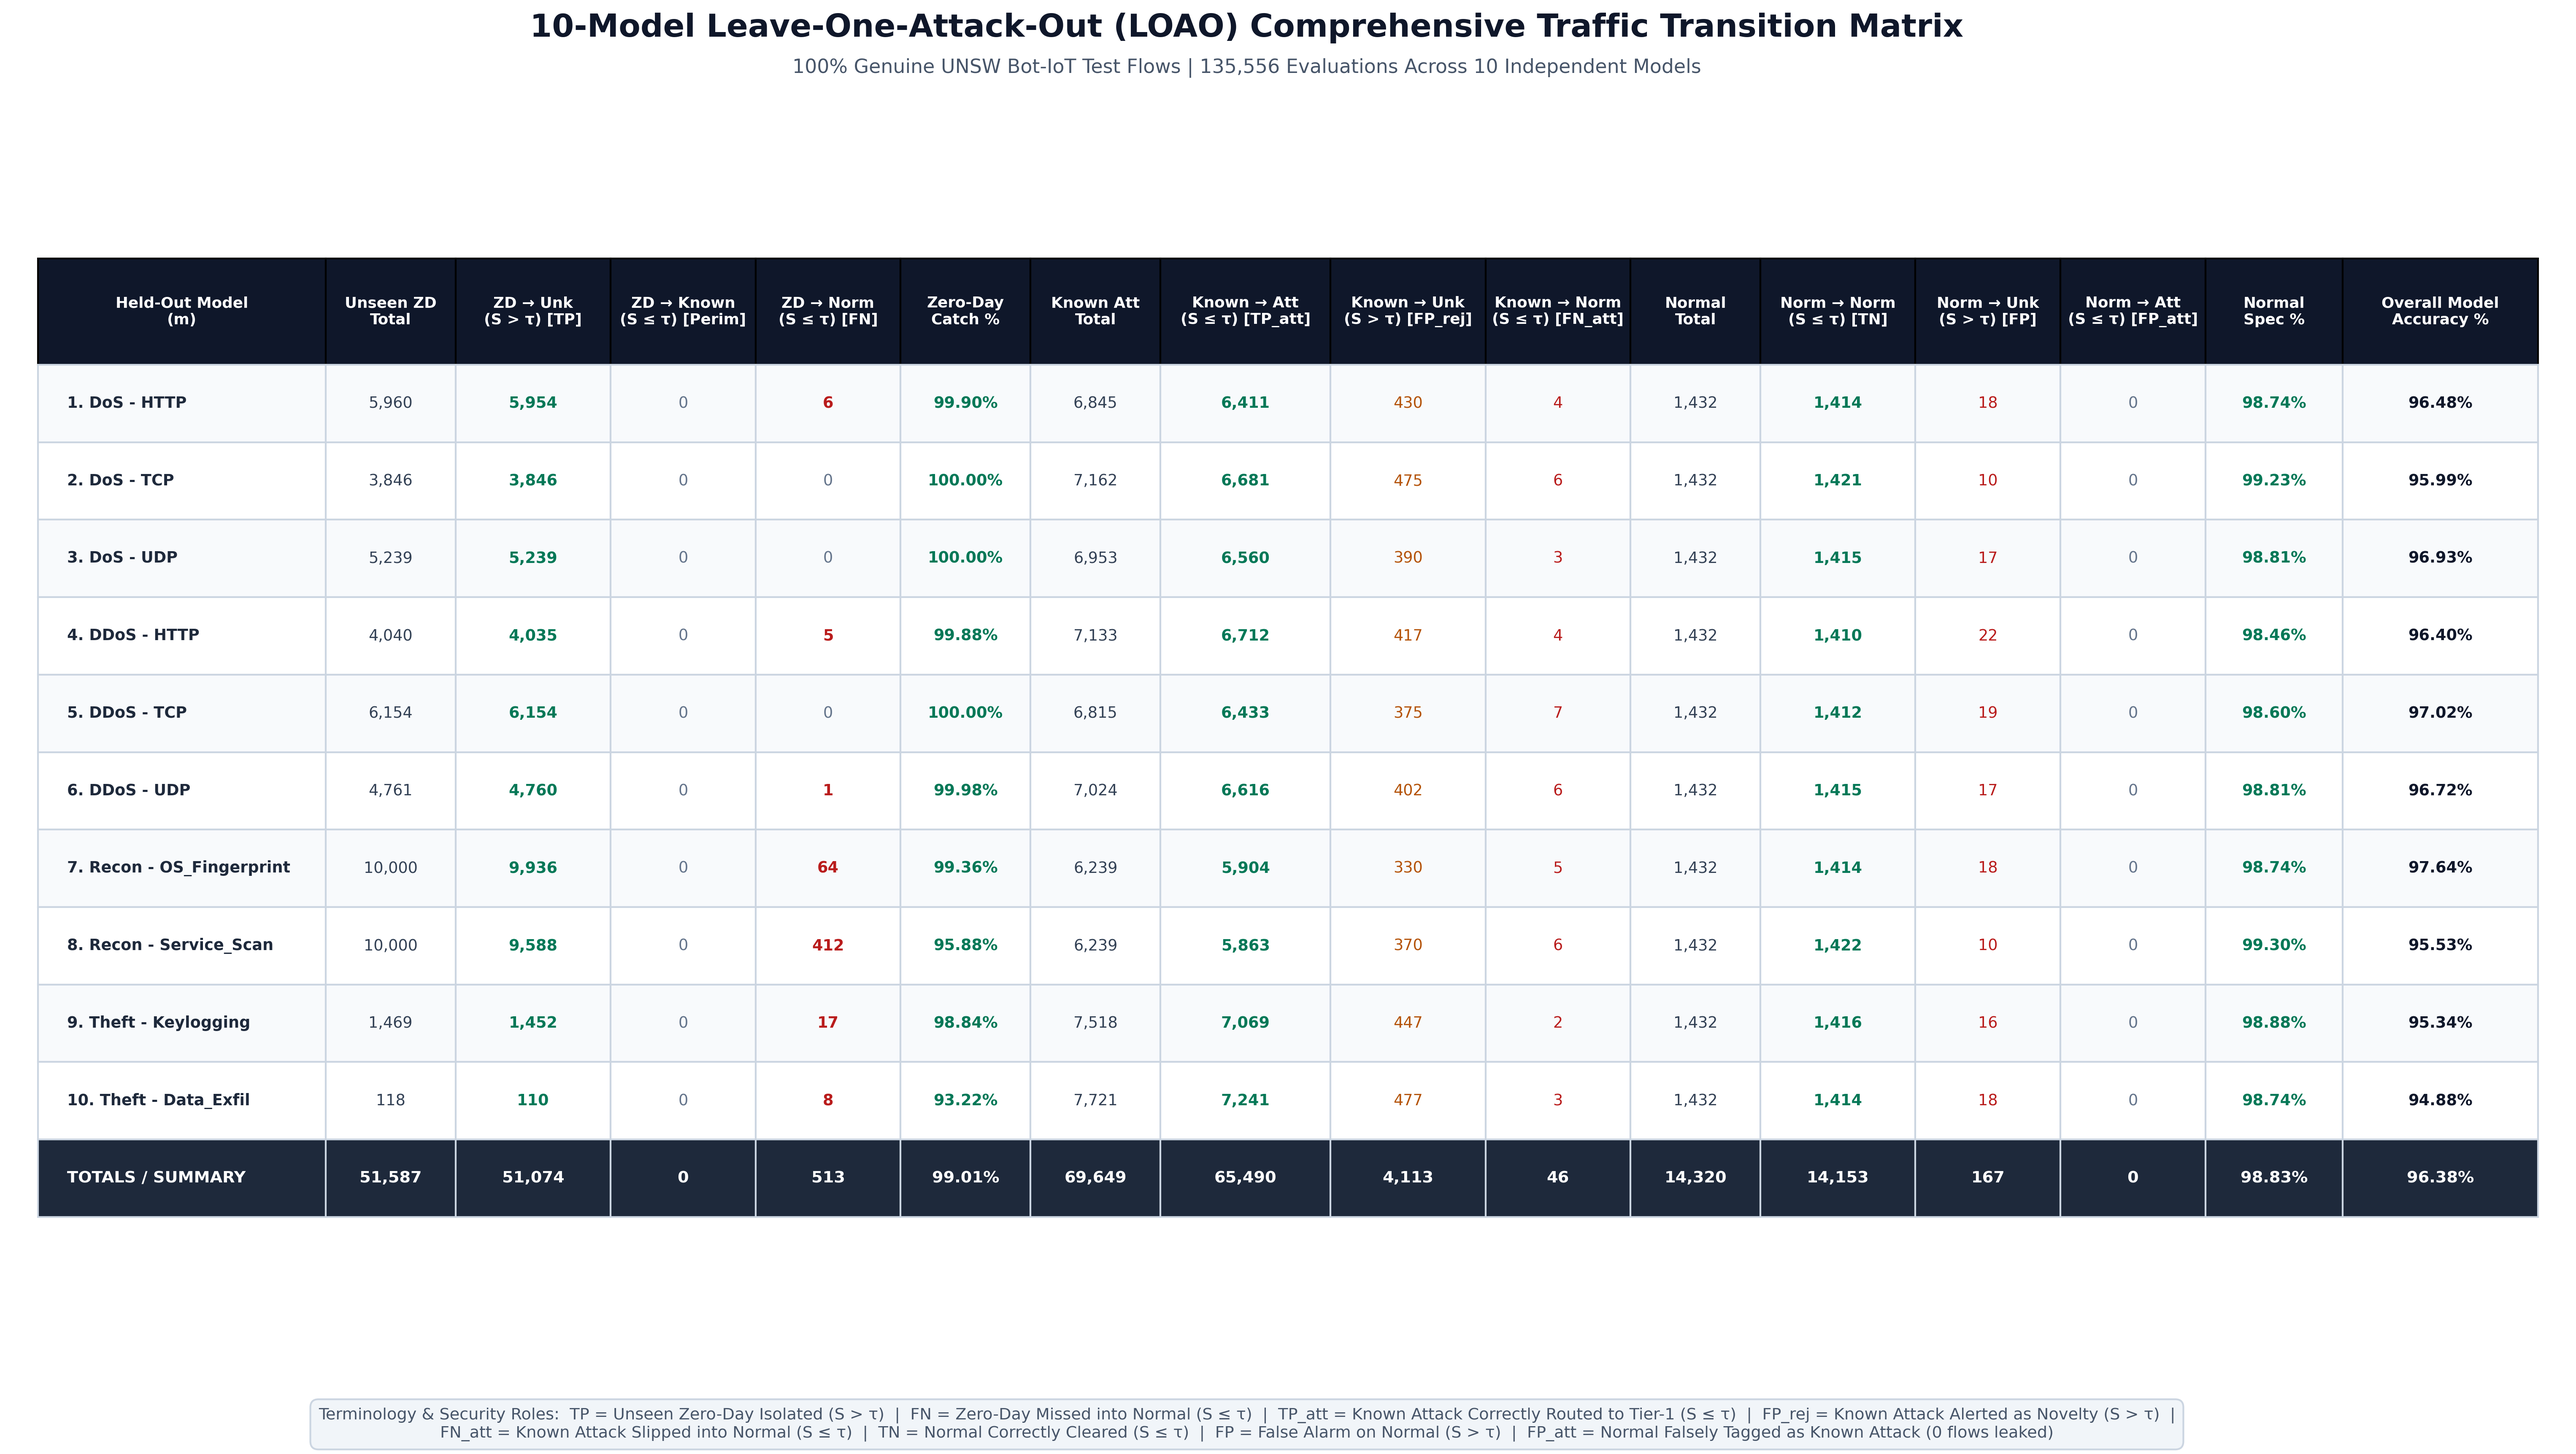
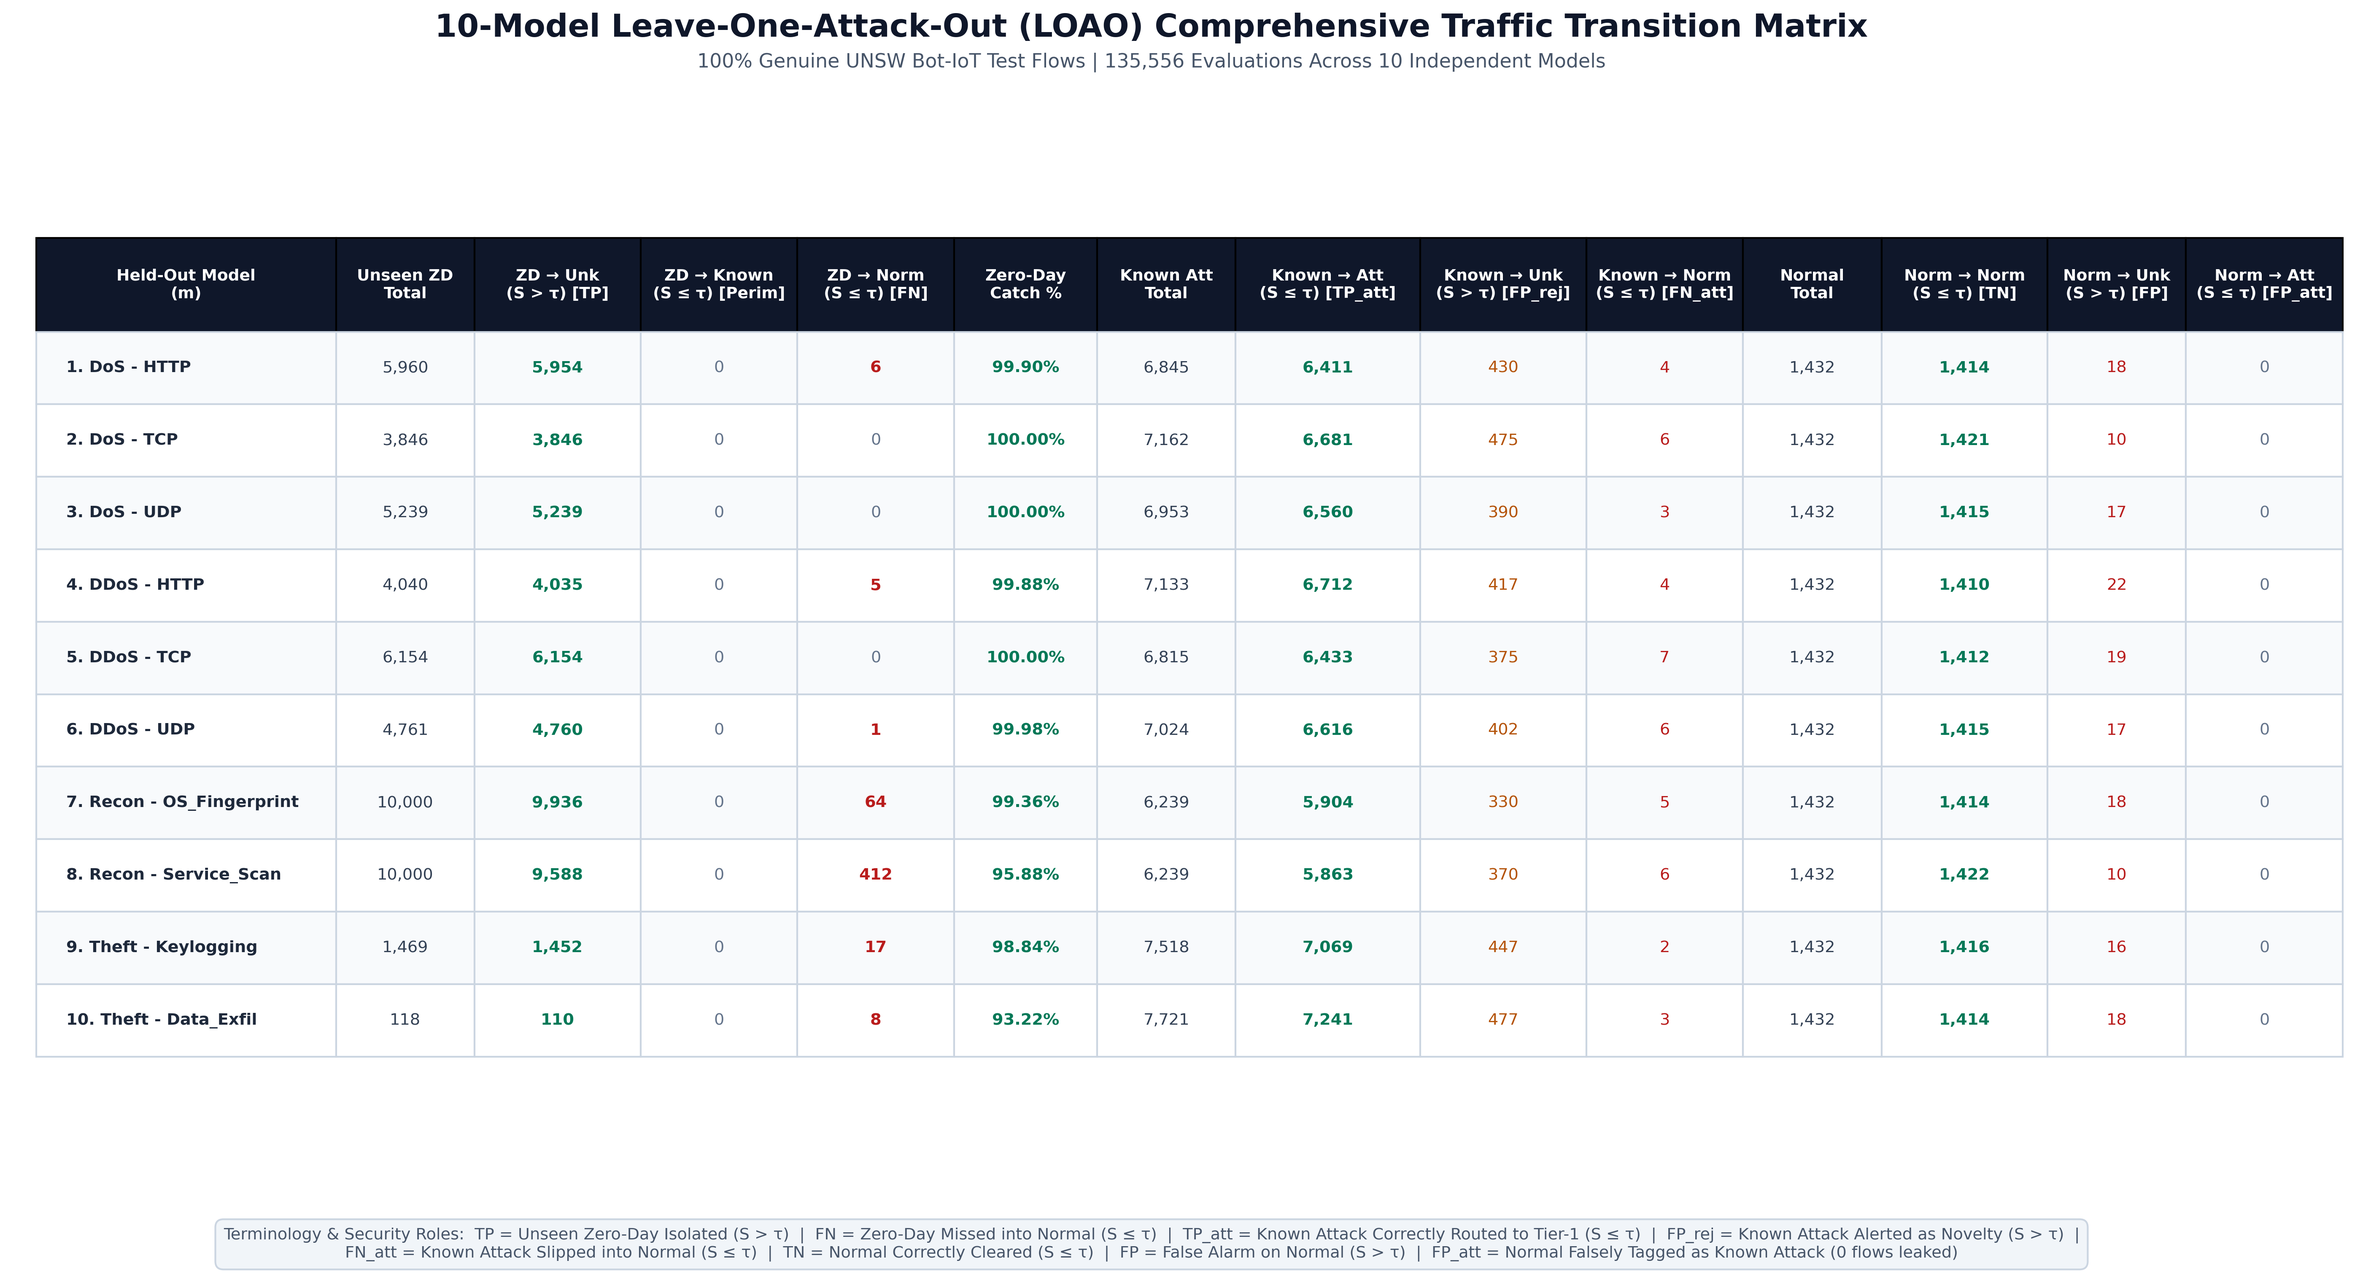
Update LOAO transition matrix: remove totals row and last two columns

diff --git a/Final_Proposed_Solution/03_Tier2_ZeroDay_Detection/generate_per_model_three_stream_table_png.py b/Final_Proposed_Solution/03_Tier2_ZeroDay_Detection/generate_per_model_three_stream_table_png.py
@@ -4,11 +4,10 @@ per_model_three_stream_mapping_table.png
 
 Presents all 10 Leave-One-Attack-Out (LOAO) models tested across all 3 traffic streams:
 1. Unseen Zero-Day Flows: Tested, -> Unknown (S > tau), -> Known (S <= tau), -> Normal (S <= tau), Catch Rate %
-2. Known Attack Flows: Tested, -> Known (S <= tau), -> Unknown (S > tau), -> Normal (S <= tau), Retention %
-3. Benign Normal Flows: Tested, -> Normal (S <= tau), -> Unknown (S > tau), -> Known (S <= tau), Specificity %
-4. Overall Model Accuracy %
+2. Known Attack Flows: Tested, -> Known (S <= tau), -> Unknown (S > tau), -> Normal (S <= tau)
+3. Benign Normal Flows: Tested, -> Normal (S <= tau), -> Unknown (S > tau), -> Known (S <= tau)
 
-Includes complete accounting of all 9 routing transitions with zero text overlap.
+Excludes the totals summary row and the last two aggregated columns per user request.
 """
 
 import os
@@ -20,8 +19,8 @@ RESULTS_DIR = r'd:\p01\Final_Proposed_Solution\03_Tier2_ZeroDay_Detection\result
 os.makedirs(OUTPUT_DIR, exist_ok=True)
 os.makedirs(RESULTS_DIR, exist_ok=True)
 
-# Wide figure to guarantee ample breathing room for all 16 columns
-fig, ax = plt.subplots(figsize=(26, 12), dpi=300)
+# Wide figure to guarantee ample breathing room for all 14 columns
+fig, ax = plt.subplots(figsize=(24, 10.5), dpi=300)
 ax.axis('off')
 
 # Title & Subtitles
@@ -44,45 +43,38 @@ headers = [
     "Normal\nTotal",
     "Norm → Norm\n(S ≤ τ) [TN]",
     "Norm → Unk\n(S > τ) [FP]",
-    "Norm → Att\n(S ≤ τ) [FP_att]",
-    "Normal\nSpec %",
-    "Overall Model\nAccuracy %"
+    "Norm → Att\n(S ≤ τ) [FP_att]"
 ]
 
 rows = [
-    ["1. DoS - HTTP", "5,960", "5,954", "0", "6", "99.90%", "6,845", "6,411", "430", "4", "1,432", "1,414", "18", "0", "98.74%", "96.48%"],
-    ["2. DoS - TCP", "3,846", "3,846", "0", "0", "100.00%", "7,162", "6,681", "475", "6", "1,432", "1,421", "10", "0", "99.23%", "95.99%"],
-    ["3. DoS - UDP", "5,239", "5,239", "0", "0", "100.00%", "6,953", "6,560", "390", "3", "1,432", "1,415", "17", "0", "98.81%", "96.93%"],
-    ["4. DDoS - HTTP", "4,040", "4,035", "0", "5", "99.88%", "7,133", "6,712", "417", "4", "1,432", "1,410", "22", "0", "98.46%", "96.40%"],
-    ["5. DDoS - TCP", "6,154", "6,154", "0", "0", "100.00%", "6,815", "6,433", "375", "7", "1,432", "1,412", "19", "0", "98.60%", "97.02%"],
-    ["6. DDoS - UDP", "4,761", "4,760", "0", "1", "99.98%", "7,024", "6,616", "402", "6", "1,432", "1,415", "17", "0", "98.81%", "96.72%"],
-    ["7. Recon - OS_Fingerprint", "10,000", "9,936", "0", "64", "99.36%", "6,239", "5,904", "330", "5", "1,432", "1,414", "18", "0", "98.74%", "97.64%"],
-    ["8. Recon - Service_Scan", "10,000", "9,588", "0", "412", "95.88%", "6,239", "5,863", "370", "6", "1,432", "1,422", "10", "0", "99.30%", "95.53%"],
-    ["9. Theft - Keylogging", "1,469", "1,452", "0", "17", "98.84%", "7,518", "7,069", "447", "2", "1,432", "1,416", "16", "0", "98.88%", "95.34%"],
-    ["10. Theft - Data_Exfil", "118", "110", "0", "8", "93.22%", "7,721", "7,241", "477", "3", "1,432", "1,414", "18", "0", "98.74%", "94.88%"],
-    # TOTALS ROW
-    ["TOTALS / SUMMARY", "51,587", "51,074", "0", "513", "99.01%", "69,649", "65,490", "4,113", "46", "14,320", "14,153", "167", "0", "98.83%", "96.38%"]
+    ["1. DoS - HTTP", "5,960", "5,954", "0", "6", "99.90%", "6,845", "6,411", "430", "4", "1,432", "1,414", "18", "0"],
+    ["2. DoS - TCP", "3,846", "3,846", "0", "0", "100.00%", "7,162", "6,681", "475", "6", "1,432", "1,421", "10", "0"],
+    ["3. DoS - UDP", "5,239", "5,239", "0", "0", "100.00%", "6,953", "6,560", "390", "3", "1,432", "1,415", "17", "0"],
+    ["4. DDoS - HTTP", "4,040", "4,035", "0", "5", "99.88%", "7,133", "6,712", "417", "4", "1,432", "1,410", "22", "0"],
+    ["5. DDoS - TCP", "6,154", "6,154", "0", "0", "100.00%", "6,815", "6,433", "375", "7", "1,432", "1,412", "19", "0"],
+    ["6. DDoS - UDP", "4,761", "4,760", "0", "1", "99.98%", "7,024", "6,616", "402", "6", "1,432", "1,415", "17", "0"],
+    ["7. Recon - OS_Fingerprint", "10,000", "9,936", "0", "64", "99.36%", "6,239", "5,904", "330", "5", "1,432", "1,414", "18", "0"],
+    ["8. Recon - Service_Scan", "10,000", "9,588", "0", "412", "95.88%", "6,239", "5,863", "370", "6", "1,432", "1,422", "10", "0"],
+    ["9. Theft - Keylogging", "1,469", "1,452", "0", "17", "98.84%", "7,518", "7,069", "447", "2", "1,432", "1,416", "16", "0"],
+    ["10. Theft - Data_Exfil", "118", "110", "0", "8", "93.22%", "7,721", "7,241", "477", "3", "1,432", "1,414", "18", "0"]
 ]
 
-# 16 columns, width budgeting tailored to content
-# Total sum = 1.00
+# 14 columns, total width = 1.00
 col_widths = [
-    0.115,  # Model Name
-    0.052,  # ZD Total
-    0.062,  # ZD -> Unk [TP]
-    0.058,  # ZD -> Known [Perim]
-    0.058,  # ZD -> Norm [FN]
-    0.052,  # ZD Catch %
-    0.052,  # Known Total
-    0.068,  # Known -> Att [TP_att]
-    0.062,  # Known -> Unk [FP_rej]
-    0.058,  # Known -> Norm [FN_att]
-    0.052,  # Norm Total
-    0.062,  # Norm -> Norm [TN]
-    0.058,  # Norm -> Unk [FP]
-    0.058,  # Norm -> Att [FP_att]
-    0.055,  # Norm Spec %
-    0.078   # Overall Acc %
+    0.130,  # Model Name
+    0.060,  # ZD Total
+    0.072,  # ZD -> Unk [TP]
+    0.068,  # ZD -> Known [Perim]
+    0.068,  # ZD -> Norm [FN]
+    0.062,  # ZD Catch %
+    0.060,  # Known Total
+    0.080,  # Known -> Att [TP_att]
+    0.072,  # Known -> Unk [FP_rej]
+    0.068,  # Known -> Norm [FN_att]
+    0.060,  # Norm Total
+    0.072,  # Norm -> Norm [TN]
+    0.060,  # Norm -> Unk [FP]
+    0.068   # Norm -> Att [FP_att]
 ]
 
 table = ax.table(
@@ -91,63 +83,55 @@ table = ax.table(
     colWidths=col_widths,
     cellLoc='center',
     loc='center',
-    bbox=[0.01, 0.08, 0.98, 0.82]
+    bbox=[0.01, 0.09, 0.98, 0.80]
 )
 
 table.auto_set_font_size(False)
-table.set_fontsize(8.8)
+table.set_fontsize(9.2)
 
 # Style headers
-for j in range(16):
+for j in range(14):
     cell = table[(0, j)]
     cell.set_facecolor('#0f172a')
-    cell.set_text_props(color='white', fontweight='bold', fontsize=8.6)
-    cell.set_height(0.085)
+    cell.set_text_props(color='white', fontweight='bold', fontsize=9.0)
+    cell.set_height(0.088)
 
-# Style rows
+# Style data rows
 for i in range(1, len(rows) + 1):
-    is_total = (i == len(rows))
-    bg_color = '#1e293b' if is_total else ('#f8fafc' if i % 2 == 1 else '#ffffff')
+    bg_color = '#f8fafc' if i % 2 == 1 else '#ffffff'
     
-    for j in range(16):
+    for j in range(14):
         cell = table[(i, j)]
         cell.set_facecolor(bg_color)
         cell.set_edgecolor('#cbd5e1')
-        cell.set_height(0.062)
+        cell.set_height(0.068)
         
-        if is_total:
-            cell.set_text_props(color='white', fontweight='bold', fontsize=9.2)
-            if j == 0:
-                cell.get_text().set_ha('left')
+        if j == 0:
+            cell.get_text().set_ha('left')
+            cell.set_text_props(fontweight='bold', color='#1e293b')
+        elif j in [2, 5]: # ZD caught & rate
+            cell.set_text_props(fontweight='bold', color='#047857')
+        elif j == 3: # ZD -> Known
+            cell.set_text_props(color='#64748b')
+        elif j == 4: # ZD -> Normal (FN missed)
+            val = rows[i-1][4]
+            color = '#64748b' if val == '0' else '#b91c1c'
+            cell.set_text_props(fontweight='bold' if val != '0' else 'normal', color=color)
+        elif j == 7: # Known -> Known
+            cell.set_text_props(fontweight='bold', color='#047857')
+        elif j == 8: # Known -> Unknown (Alert)
+            cell.set_text_props(color='#b45309')
+        elif j == 9: # Known -> Normal (FN_att missed)
+            val = rows[i-1][9]
+            cell.set_text_props(color='#b91c1c' if int(val) > 0 else '#64748b')
+        elif j == 11: # Normal cleared
+            cell.set_text_props(fontweight='bold', color='#047857')
+        elif j == 12: # Normal -> Unknown (False alarm)
+            cell.set_text_props(color='#b91c1c')
+        elif j == 13: # Normal -> Known (FP_att)
+            cell.set_text_props(color='#64748b')
         else:
-            if j == 0:
-                cell.get_text().set_ha('left')
-                cell.set_text_props(fontweight='bold', color='#1e293b')
-            elif j in [2, 5]: # ZD caught & rate
-                cell.set_text_props(fontweight='bold', color='#047857')
-            elif j == 3: # ZD -> Known
-                cell.set_text_props(color='#64748b')
-            elif j == 4: # ZD -> Normal (FN missed)
-                val = rows[i-1][4]
-                color = '#64748b' if val == '0' else '#b91c1c'
-                cell.set_text_props(fontweight='bold' if val != '0' else 'normal', color=color)
-            elif j == 7: # Known -> Known
-                cell.set_text_props(fontweight='bold', color='#047857')
-            elif j == 8: # Known -> Unknown (Alert)
-                cell.set_text_props(color='#b45309')
-            elif j == 9: # Known -> Normal (FN_att missed)
-                val = rows[i-1][9]
-                cell.set_text_props(color='#b91c1c' if int(val) > 0 else '#64748b')
-            elif j in [11, 14]: # Normal cleared & spec
-                cell.set_text_props(fontweight='bold', color='#047857')
-            elif j == 12: # Normal -> Unknown (False alarm)
-                cell.set_text_props(color='#b91c1c')
-            elif j == 13: # Normal -> Known (FP_att)
-                cell.set_text_props(color='#64748b')
-            elif j == 15: # Overall model accuracy
-                cell.set_text_props(fontweight='bold', color='#0f172a')
-            else:
-                cell.set_text_props(color='#334155')
+            cell.set_text_props(color='#334155')
 
 # Caption explaining notation at bottom
 caption_text = (
@@ -161,7 +145,7 @@ caption_text = (
     "FP = False Alarm on Normal (S > τ)  |  "
     "FP_att = Normal Falsely Tagged as Known Attack (0 flows leaked)"
 )
-fig.text(0.5, 0.035, caption_text, ha='center', va='center', fontsize=9.2, color='#475569',
+fig.text(0.5, 0.038, caption_text, ha='center', va='center', fontsize=9.2, color='#475569',
          bbox=dict(boxstyle='round,pad=0.5', facecolor='#f1f5f9', edgecolor='#cbd5e1'))
 
 p_live = os.path.join(OUTPUT_DIR, "per_model_three_stream_mapping_table.png")
@@ -169,4 +153,4 @@ p_res = os.path.join(RESULTS_DIR, "per_model_three_stream_mapping_table.png")
 plt.savefig(p_live, bbox_inches='tight', dpi=300)
 plt.savefig(p_res, bbox_inches='tight', dpi=300)
 plt.close()
-print("Saved complete per-model 3-stream table to:", p_live)
+print("Saved complete per-model 3-stream table (14 cols, 10 models) to:", p_live)
